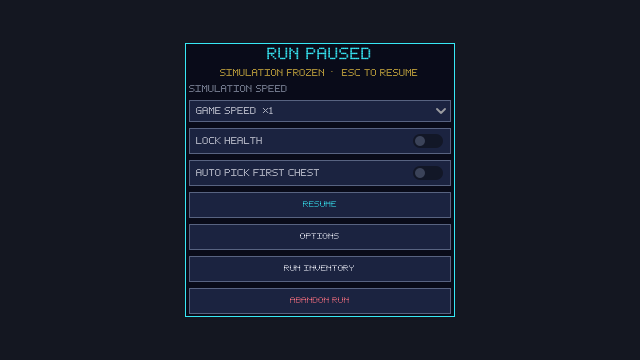
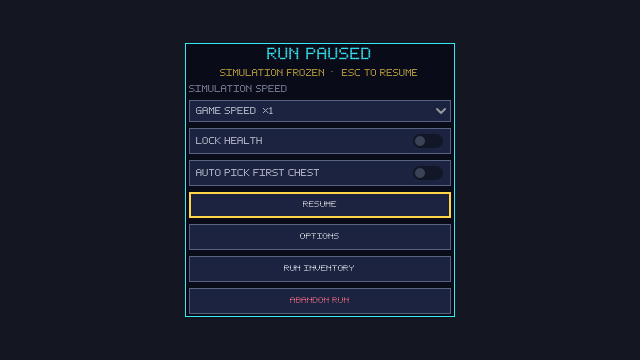
docs: capture UI focus, confirmation and error states

Changed region(s): [[0.2812, 0.5194, 0.7188, 0.6111]]

diff --git a/docs/art/evidence/2026-10-18/README.md b/docs/art/evidence/2026-10-18/README.md
@@ -11,17 +11,20 @@ Captures 640×360 générées avec Godot 4.7.2 sous Xvfb/Mesa llvmpipe. Les smok
[14 lines of base64/hex data omitted]
 
 Les captures ont été régénérées après import des exports graphiques renouvelés le 2026-10-18 et inspectées. La planche catalogue, le hub et le combat ont changé de hash; les autres captures sont identiques. L’utilisateur a confirmé que le texte courant et les labels pixel du hub et de l’équipement sont lisibles à 640×360. Ces images valident le rendu virtualisé ciblé, pas le GPU matériel ni les contrôles physiques. La revue audio en contexte reste **[OUVERTE]** à la demande de l’utilisateur de poursuivre sans écoute.
 
-Les huit captures `states/*.png` ont été générées par `game/tests/ui_states_evidence_smoke.gd` sous Godot 4.7.2/Xvfb/Mesa llvmpipe. Le smoke construit chaque scène avec des exemples visuels temporaires; il ne modifie aucun profil. Les panneaux coffre et résultat sont centrés par le conteneur parent utilisé à l’intégration. Ces captures étendent la revue aux états secondaires, mais ne prouvent pas toutes les erreurs, branches de focus, tailles ni contrôles physiques.
+Les onze captures `states/*.png` ont été générées par `game/tests/ui_states_evidence_smoke.gd` sous Godot 4.7.2/Xvfb/Mesa llvmpipe. Le smoke construit chaque scène avec des exemples visuels temporaires; il ne modifie aucun profil. La série montre maintenant les confirmations d’abandon, les erreurs de profil et des focus initiaux sur plusieurs écrans. Les panneaux coffre et résultat sont centrés par le conteneur parent utilisé à l’intégration. Ces captures ne couvrent pas toutes les erreurs, branches de focus, tailles ni contrôles physiques.
 
 ## Parcours du paquet Linux/X11 Release — build du 2026-10-18
 

diff --git a/docs/qa/TESTS.md b/docs/qa/TESTS.md
@@ -2086,8 +2086,8 @@ Note de clôture : le blocage historique du smoke `sandbox_ui_smoke.gd` décrit 
 
 ## Captures des états UI secondaires — 2026-10-18
 
-- [x] `xvfb-run -a tools/local/godot-4.7.2/Godot_v4.7.2-stable_linux.x86_64 --path game --script res://tests/ui_states_evidence_smoke.gd --audio-driver Dummy` génère 7 captures à 640×360 sous `docs/art/evidence/2026-10-18/states/`: options, pause, coffre, inventaire run, résultat, records Armorless et Sandbox.
-- [x] Les images ont été inspectées; le smoke place les scènes de coffre/résultat dans un `CenterContainer`, conforme au contexte parent de jeu. Chaque scène est construite isolément avec données de présentation temporaires; le Sandbox est rendu depuis `main.tscn` avec `PAUSED / NO SAVE`.
+- [x] `xvfb-run -a tools/local/godot-4.7.2/Godot_v4.7.2-stable_linux.x86_64 --path game --script res://tests/ui_states_evidence_smoke.gd --audio-driver Dummy` génère 11 captures à 640×360 sous `docs/art/evidence/2026-10-18/states/`: options, pause/focus, confirmation d’abandon, coffre, inventaire run, résultat, records Armorless, Sandbox dev/Lab et erreurs équipement/arbre.
+- [x] Les images ont été inspectées; le smoke place les scènes de coffre/résultat dans un `CenterContainer`, conforme au contexte parent de jeu. Chaque scène est construite isolément avec données de présentation temporaires; la confirmation et les erreurs capturent un focus réel appliqué au contrôle principal.
 - [i] Cette extension de revue documente un état principal par écran secondaire et le rendu logiciel seulement; elle ne couvre pas toutes les branches d’erreur/focus, la run entière, l’audio ou le matériel physique. Les hashes sont dans `docs/art/evidence/2026-10-18/README.md`.
 
 
